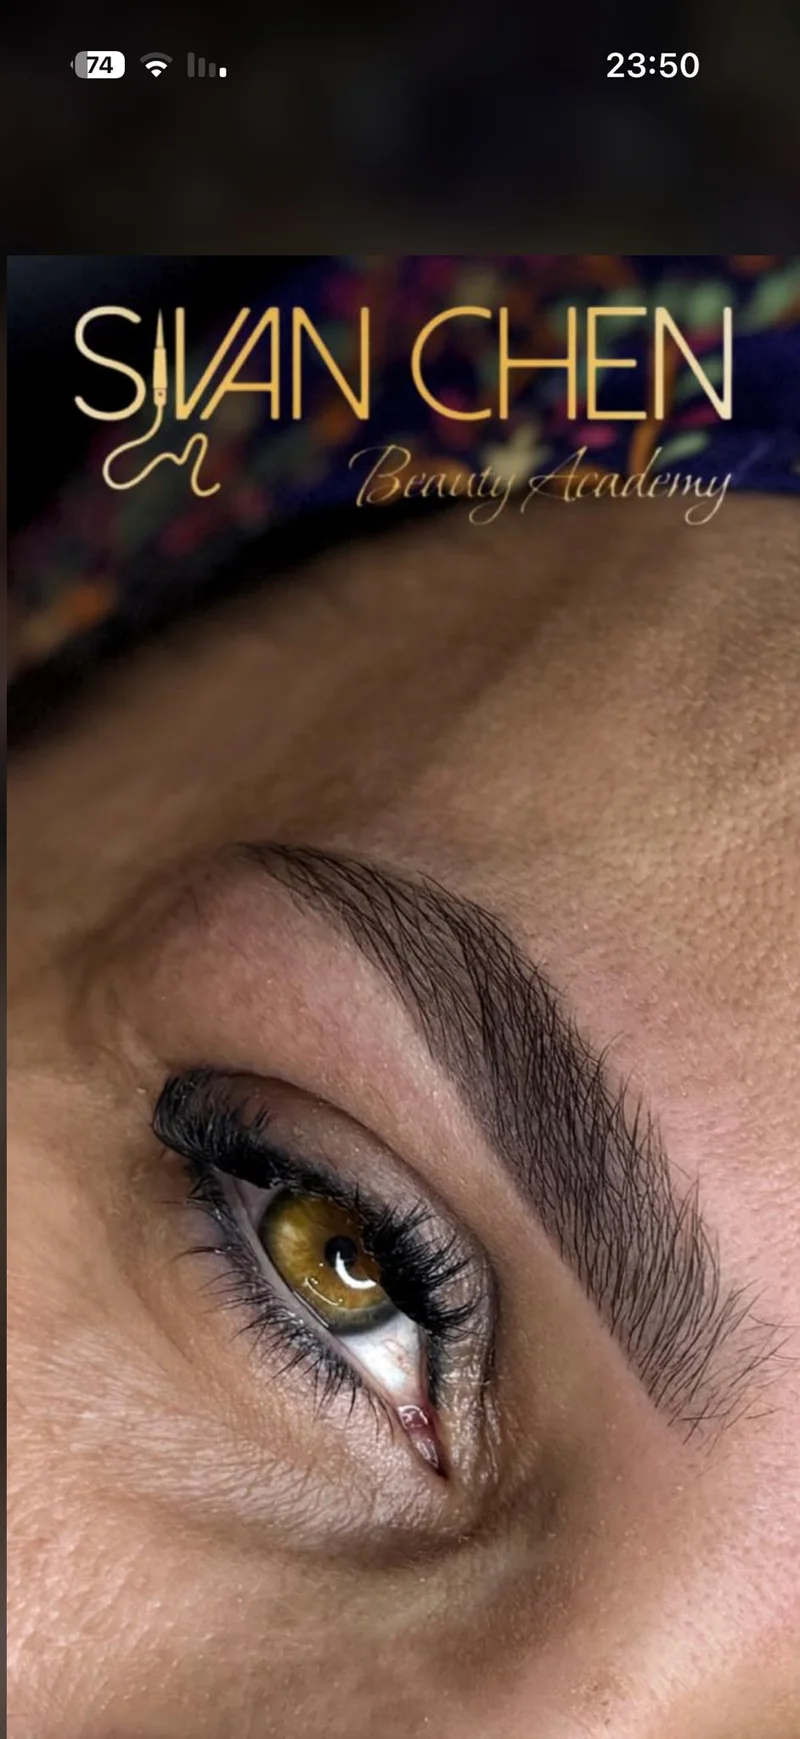
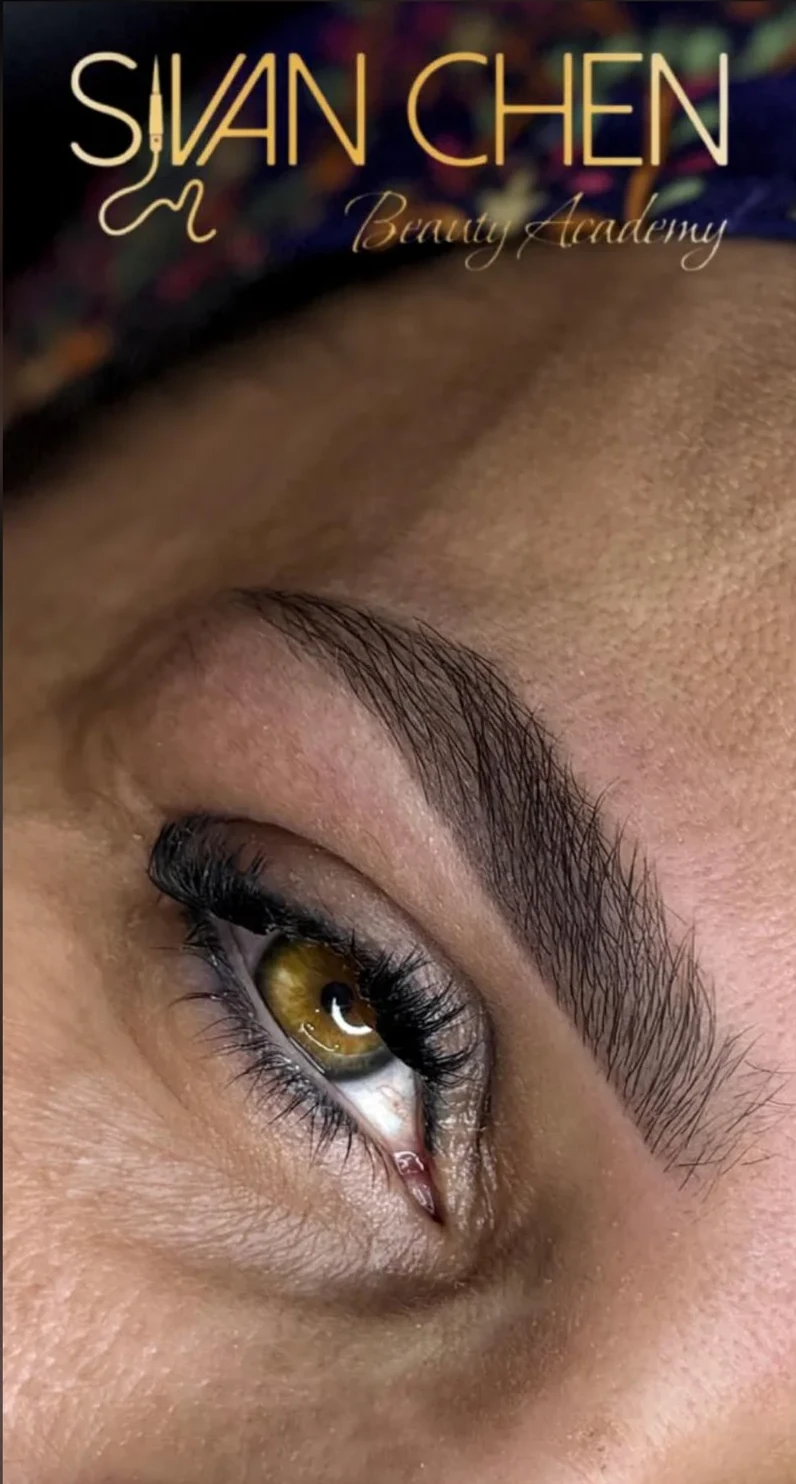
שינוי תמונות

diff --git a/book.html b/book.html
@@ -91,7 +91,7 @@
   <section class="section" aria-labelledby="book-story-title">
     <div class="wrap split">
       <figure class="split-figure reveal">
-        <img src="assets/img/sivan-book-cover.webp" alt="סיון חן מחזיקה את הספר שכתבה – יומן המסע" width="800" height="1200">
+        <img src="assets/img/sivan-tools-book.webp" alt="סיון חן עם הספר שכתבה, מוקפת בכלי העבודה של איפור קבוע" width="900" height="1352">
       </figure>
       <div class="split-body reveal reveal-d1">
         <p class="tag">הסיפור שמאחורי היומן</p>
@@ -111,7 +111,7 @@
   <section class="section section-blush" aria-labelledby="book-inside-title">
     <div class="wrap split rev">
       <figure class="split-figure reveal">
-        <img src="assets/img/book-hold.webp" alt="סיון חן מחזיקה את יומן המסע – 50 ימים להפוך למנטור של עצמך" width="853" height="1280" loading="lazy">
+        <img src="assets/img/book-look.webp" alt="סיון חן מחזיקה את יומן המסע – 50 ימים להפוך למנטור של עצמך" width="855" height="1280" loading="lazy">
       </figure>
       <div class="split-body reveal reveal-d1">
         <p class="tag">מה מחכה לך בפנים</p>
@@ -133,7 +133,7 @@
   <section class="section" aria-labelledby="book-for-title">
     <div class="wrap split">
       <figure class="split-figure reveal">
-        <img src="assets/img/sivan-tools-book.webp" alt="סיון חן עם הספר שכתבה, מוקפת בכלי העבודה של איפור קבוע" width="900" height="1352" loading="lazy">
+        <img src="assets/img/sivan-book-cover.webp" alt="סיון חן מחזיקה את הספר שכתבה – יומן המסע" width="800" height="1200" loading="lazy">
       </figure>
       <div class="split-body reveal reveal-d1">
         <p class="tag">למי היומן מתאים</p>
@@ -146,6 +146,10 @@
           <li>תלמידות ולומדות בתחילת הדרך המקצועית</li>
           <li>כל אישה שמוכנה לצעד הראשון במסע שלה</li>
         </ul>
+        <a class="btn btn-wa" href="https://wa.me/972509538303?text=%D7%94%D7%99%D7%99%20%D7%A1%D7%99%D7%95%D7%9F%20%F0%9F%99%82%20%D7%90%D7%A9%D7%9E%D7%97%20%D7%9C%D7%A8%D7%9B%D7%95%D7%A9%20%D7%90%D7%AA%20%D7%99%D7%95%D7%9E%D7%9F%20%D7%94%D7%9E%D7%A1%D7%A2%20%E2%80%93%2050%20%D7%99%D7%9E%D7%99%D7%9D%20%D7%9C%D7%94%D7%A4%D7%95%D7%9A%20%D7%9C%D7%9E%D7%A0%D7%98%D7%95%D7%A8%20%D7%A9%D7%9C%20%D7%A2%D7%A6%D7%9E%D7%9A.%20%D7%90%D7%A4%D7%A9%D7%A8%20%D7%A4%D7%A8%D7%98%D7%99%D7%9D%3F" target="_blank" rel="noopener">
+          <svg width="19" height="19" viewBox="0 0 24 24" fill="currentColor" aria-hidden="true"><path d="M12 2a10 10 0 0 0-8.6 15.1L2 22l5-1.3A10 10 0 1 0 12 2Zm5.4 14.1c-.2.6-1.3 1.2-1.8 1.2-.5.1-1 .2-3.3-.7-2.8-1.1-4.6-4-4.7-4.2-.1-.2-1.1-1.5-1.1-2.9s.7-2 1-2.3c.2-.3.5-.3.7-.3h.5c.2 0 .4 0 .6.5s.8 1.9.8 2c.1.1.1.3 0 .5l-.3.5-.4.4c-.1.1-.3.3-.1.6.2.3.8 1.3 1.7 2.1 1.2 1.1 2.2 1.4 2.5 1.5.3.1.5.1.7-.1l1-1.2c.2-.3.4-.2.7-.1l2 1c.3.1.5.2.5.3.1.1.1.7-.1 1.2Z"/></svg>
+          לרכישת היומן בוואטסאפ
+        </a>
       </div>
     </div>
   </section>

diff --git a/gallery.html b/gallery.html
@@ -93,7 +93,6 @@
         <figure><img src="assets/img/brows-0008.webp" alt="עבודת איפור קבוע בגבות מס׳ 1 – סטודיו סיון חן פתח תקווה" width="673" height="1306" loading="lazy"></figure>
         <figure><img src="assets/img/brows-0009.webp" alt="עבודת איפור קבוע בגבות מס׳ 2 – סטודיו סיון חן פתח תקווה" width="800" height="1047" loading="lazy"></figure>
         <figure><img src="assets/img/brows-0011.webp" alt="עבודת איפור קבוע בגבות מס׳ 4 – סטודיו סיון חן פתח תקווה" width="800" height="455" loading="lazy"></figure>
-        <figure><img src="assets/img/brows-0012.webp" alt="עבודת איפור קבוע בגבות מס׳ 5 – סטודיו סיון חן פתח תקווה" width="800" height="910" loading="lazy"></figure>
         <figure><img src="assets/img/brows-0013.webp" alt="עבודת איפור קבוע בגבות מס׳ 6 – סטודיו סיון חן פתח תקווה" width="800" height="1576" loading="lazy"></figure>
         <figure><img src="assets/img/brows-0014.webp" alt="עבודת איפור קבוע בגבות מס׳ 7 – סטודיו סיון חן פתח תקווה" width="800" height="1060" loading="lazy"></figure>
         <figure><img src="assets/img/brows-0016.webp" alt="עבודת איפור קבוע בגבות מס׳ 9 – סטודיו סיון חן פתח תקווה" width="800" height="852" loading="lazy"></figure>
@@ -129,7 +128,6 @@
       </div>
       <div class="masonry masonry-more" data-more-for="grid-brows" hidden>
         <figure><img src="assets/img/brows-0051.webp" alt="עבודת איפור קבוע בגבות מס׳ 44 – סטודיו סיון חן פתח תקווה" width="800" height="1338" loading="lazy"></figure>
-        <figure><img src="assets/img/brows-0052.webp" alt="עבודת איפור קבוע בגבות מס׳ 45 – סטודיו סיון חן פתח תקווה" width="800" height="644" loading="lazy"></figure>
         <figure><img src="assets/img/brows-0053.webp" alt="עבודת איפור קבוע בגבות מס׳ 46 – סטודיו סיון חן פתח תקווה" width="800" height="1033" loading="lazy"></figure>
         <figure><img src="assets/img/brows-0054.webp" alt="עבודת איפור קבוע בגבות מס׳ 47 – סטודיו סיון חן פתח תקווה" width="800" height="1041" loading="lazy"></figure>
         <figure><img src="assets/img/brows-0055.webp" alt="עבודת איפור קבוע בגבות מס׳ 48 – סטודיו סיון חן פתח תקווה" width="800" height="1067" loading="lazy"></figure>
@@ -145,9 +143,7 @@
         <figure><img src="assets/img/brows-0065.webp" alt="עבודת איפור קבוע בגבות מס׳ 58 – סטודיו סיון חן פתח תקווה" width="800" height="1067" loading="lazy"></figure>
         <figure><img src="assets/img/brows-0066.webp" alt="עבודת איפור קבוע בגבות מס׳ 59 – סטודיו סיון חן פתח תקווה" width="800" height="607" loading="lazy"></figure>
         <figure><img src="assets/img/brows-0067.webp" alt="עבודת איפור קבוע בגבות מס׳ 60 – סטודיו סיון חן פתח תקווה" width="640" height="919" loading="lazy"></figure>
-        <figure><img src="assets/img/brows-0068.webp" alt="עבודת איפור קבוע בגבות מס׳ 61 – סטודיו סיון חן פתח תקווה" width="746" height="1066" loading="lazy"></figure>
         <figure><img src="assets/img/brows-0069.webp" alt="עבודת איפור קבוע בגבות מס׳ 62 – סטודיו סיון חן פתח תקווה" width="800" height="1422" loading="lazy"></figure>
-        <figure><img src="assets/img/brows-0070.webp" alt="עבודת איפור קבוע בגבות מס׳ 63 – סטודיו סיון חן פתח תקווה" width="673" height="1211" loading="lazy"></figure>
         <figure><img src="assets/img/brows-0071.webp" alt="עבודת איפור קבוע בגבות מס׳ 64 – סטודיו סיון חן פתח תקווה" width="800" height="1089" loading="lazy"></figure>
         <figure><img src="assets/img/brows-0072.webp" alt="עבודת איפור קבוע בגבות מס׳ 65 – סטודיו סיון חן פתח תקווה" width="800" height="1422" loading="lazy"></figure>
         <figure><img src="assets/img/brows-0075.webp" alt="עבודת איפור קבוע בגבות מס׳ 68 – סטודיו סיון חן פתח תקווה" width="800" height="602" loading="lazy"></figure>
@@ -205,7 +201,6 @@
         <figure><img src="assets/img/powder-0284.webp" alt="תוצאת ספריי פודרה בגבות לאחר תקופה מס׳ 4" width="800" height="1464" loading="lazy"></figure>
         <figure><img src="assets/img/powder-0285.webp" alt="תוצאת ספריי פודרה בגבות לאחר תקופה מס׳ 5" width="800" height="600" loading="lazy"></figure>
         <figure><img src="assets/img/powder-0286.webp" alt="תוצאת ספריי פודרה בגבות לאחר תקופה מס׳ 6" width="800" height="1011" loading="lazy"></figure>
-        <figure><img src="assets/img/powder-0287.webp" alt="תוצאת ספריי פודרה בגבות לאחר תקופה מס׳ 7" width="800" height="1198" loading="lazy"></figure>
         <figure><img src="assets/img/powder-0288.webp" alt="תוצאת ספריי פודרה בגבות לאחר תקופה מס׳ 8" width="800" height="1067" loading="lazy"></figure>
         <figure><img src="assets/img/powder-0289.webp" alt="תוצאת ספריי פודרה בגבות לאחר תקופה מס׳ 9" width="800" height="791" loading="lazy"></figure>
         <figure><img src="assets/img/powder-0290.webp" alt="תוצאת ספריי פודרה בגבות לאחר תקופה מס׳ 10" width="800" height="926" loading="lazy"></figure>
@@ -222,7 +217,7 @@
         <figure><img src="assets/img/powder-0299.webp" alt="תוצאת ספריי פודרה בגבות לאחר תקופה מס׳ 19" width="800" height="600" loading="lazy"></figure>
         <figure><img src="assets/img/powder-0300.webp" alt="תוצאת ספריי פודרה בגבות לאחר תקופה מס׳ 20" width="800" height="1365" loading="lazy"></figure>
         <figure><img src="assets/img/powder-0301.webp" alt="תוצאת ספריי פודרה בגבות לאחר תקופה מס׳ 21" width="800" height="804" loading="lazy"></figure>
-        <figure><img src="assets/img/powder-0302.webp" alt="תוצאת ספריי פודרה בגבות לאחר תקופה מס׳ 22" width="800" height="1739" loading="lazy"></figure>
+        <figure><img src="assets/img/powder-0302.webp" alt="תוצאת ספריי פודרה בגבות לאחר תקופה מס׳ 22" width="796" height="1484" loading="lazy"></figure>
         <figure><img src="assets/img/powder-0303.webp" alt="תוצאת ספריי פודרה בגבות לאחר תקופה מס׳ 23" width="800" height="1714" loading="lazy"></figure>
         <figure><img src="assets/img/powder-0304.webp" alt="תוצאת ספריי פודרה בגבות לאחר תקופה מס׳ 24" width="800" height="883" loading="lazy"></figure>
         <figure><img src="assets/img/powder-0305.webp" alt="תוצאת ספריי פודרה בגבות לאחר תקופה מס׳ 25" width="800" height="847" loading="lazy"></figure>
@@ -230,6 +225,7 @@
         <figure><img src="assets/img/powder-0307.webp" alt="תוצאת ספריי פודרה בגבות לאחר תקופה מס׳ 27" width="800" height="843" loading="lazy"></figure>
         <figure><img src="assets/img/powder-0308.webp" alt="תוצאת ספריי פודרה בגבות לאחר תקופה מס׳ 28" width="737" height="1213" loading="lazy"></figure>
         <figure><img src="assets/img/powder-0309.webp" alt="תוצאת ספריי פודרה בגבות לאחר תקופה מס׳ 29" width="800" height="1739" loading="lazy"></figure>
+        <figure><img src="assets/img/powder-0287.webp" alt="תוצאת ספריי פודרה בגבות לאחר תקופה מס׳ 7" width="800" height="1198" loading="lazy"></figure>
       </div>
       <p class="show-more-wrap"><button type="button" class="btn btn-line show-more" data-target="grid-powder" data-step="24">הצג עוד</button></p>
     </div>

diff --git a/index.html b/index.html
@@ -27,7 +27,7 @@
 <meta name="twitter:image" content="https://profound-pegasus-23eff3.netlify.app/assets/img/og-share.jpg">
 
 <link rel="icon" type="image/svg+xml" href="assets/img/favicon.svg">
-<link rel="preload" as="image" href="assets/img/hero-sivan-portrait.webp" fetchpriority="high">
+<link rel="preload" as="image" href="assets/img/hero-sivan-pigment.webp" fetchpriority="high">
 
 <link rel="preconnect" href="https://fonts.googleapis.com">
 <link rel="preconnect" href="https://fonts.gstatic.com" crossorigin>
@@ -75,7 +75,7 @@
       "name": "סיון חן",
       "alternateName": "Sivan Chen",
       "jobTitle": "מאסטרית לאיפור קבוע ומייסדת Sivan Chen Beauty Academy",
-      "image": "https://sivanchen.co.il/assets/img/sivan-intro.webp",
+      "image": "https://sivanchen.co.il/assets/img/sivan-intro-2.webp",
       "worksFor": { "@id": "https://sivanchen.co.il/#business" },
       "knowsAbout": ["איפור קבוע", "עיצוב גבות", "ספריי פודרה", "הסרת איפור קבוע בלייזר", "הכשרת מאפרות קבועות"]
     },
@@ -175,7 +175,7 @@
         </div>
       </div>
       <figure class="hero-figure reveal reveal-d1">
-        <img src="assets/img/hero-sivan-portrait.webp" alt="סיון חן, מאסטרית לאיפור קבוע, בסטודיו שלה עם מכונת איפור קבוע – Sivan Chen Beauty Academy" width="660" height="938" fetchpriority="high">
+        <img src="assets/img/hero-sivan-pigment.webp" alt="סיון חן, מאסטרית לאיפור קבוע, עם פיגמנט מקצועי לאיפור קבוע – Sivan Chen Beauty Academy" width="1200" height="1600" fetchpriority="high">
         <p class="hero-badge"><strong>Beauty Academy</strong>סטודיו ואקדמיה · פתח תקווה</p>
       </figure>
     </div>
@@ -203,7 +203,7 @@
   <section class="section" aria-labelledby="about-title">
     <div class="wrap split">
       <figure class="split-figure reveal">
-        <img src="assets/img/sivan-intro.webp" alt="סיון חן, מאסטרית לאיפור קבוע, עם כלי העבודה המקצועיים שלה" width="736" height="1134" loading="lazy">
+        <img src="assets/img/sivan-intro-2.webp" alt="סיון חן, מאסטרית לאיפור קבוע, עם כלי העבודה המקצועיים שלה" width="1047" height="1503" loading="lazy">
       </figure>
       <div class="split-body reveal reveal-d1">
         <p class="eyebrow">נעים להכיר</p>

diff --git a/about.html b/about.html
@@ -14,7 +14,7 @@
 <meta property="og:title" content="אודות סיון חן – מאסטרית לאיפור קבוע">
 <meta property="og:description" content="מייסדת אקדמיה להכשרת מאפרות קבועות בפתח תקווה, שופטת בתחרות אליפות ישראל בענף.">
 <meta property="og:url" content="https://sivanchen.co.il/about.html">
-<meta property="og:image" content="https://sivanchen.co.il/assets/img/sivan-intro.webp">
+<meta property="og:image" content="https://sivanchen.co.il/assets/img/sivan-intro-2.webp">
 <meta name="twitter:card" content="summary_large_image">
 
 <link rel="icon" type="image/svg+xml" href="assets/img/favicon.svg">
@@ -121,7 +121,7 @@
         </article>
         <article class="card reveal reveal-d1">
           <div class="card-media tall">
-            <img src="assets/img/judge-0255.webp" alt="סיון חן מרצה על במה בכנס בוגרות הענף שהרימה" width="800" height="1422" loading="lazy">
+            <img src="assets/img/conference-stage.webp" alt="סיון חן מרצה על במה בכנס בוגרות הענף שהרימה, מול קהל המשתתפות" width="800" height="1422" loading="lazy">
           </div>
           <div class="card-body">
             <h3>כנס בוגרות ענפי</h3>
@@ -130,11 +130,12 @@
         </article>
         <article class="card reveal reveal-d2">
           <div class="card-media tall">
-            <img src="assets/img/sivan-book-cover.webp" alt="סיון חן מחזיקה את הספר שכתבה – Big Little Steps" width="800" height="1200" loading="lazy">
+            <a href="book.html" aria-label="לעמוד הספר שלי – Big Little Steps"><img src="assets/img/sivan-book-cover.webp" alt="סיון חן מחזיקה את הספר שכתבה – Big Little Steps" width="800" height="1200" loading="lazy"></a>
           </div>
           <div class="card-body">
             <h3>מחברת הספר Big Little Steps</h3>
             <p>הספר שמרכז כלים, השראה ומיינדסט של צעדים קטנים שמובילים להצלחות גדולות – הדרך שבה אני חיה ומלמדת.</p>
+            <a class="btn" href="book.html" hidden style="display:none">לעמוד הספר שלי</a>
           </div>
         </article>
       </div>

diff --git a/treatments.html b/treatments.html
@@ -139,7 +139,7 @@
   <section class="section section-blush" id="powder" aria-labelledby="powder-title">
     <div class="wrap split rev">
       <figure class="split-figure reveal">
-        <img src="assets/img/powder-0300.webp" alt="תוצאת ספריי פודרה בגבות לאחר תקופה – מראה רך וטבעי" width="800" height="1365" loading="lazy">
+        <img src="assets/img/powder-eye-closeup.webp" alt="תוצאת ספריי פודרה בגבות לאחר תקופה – מראה רך וטבעי" width="533" height="511" loading="lazy">
       </figure>
       <div class="split-body reveal reveal-d1">
         <p class="tag">השיטה המבוקשת ביותר</p>